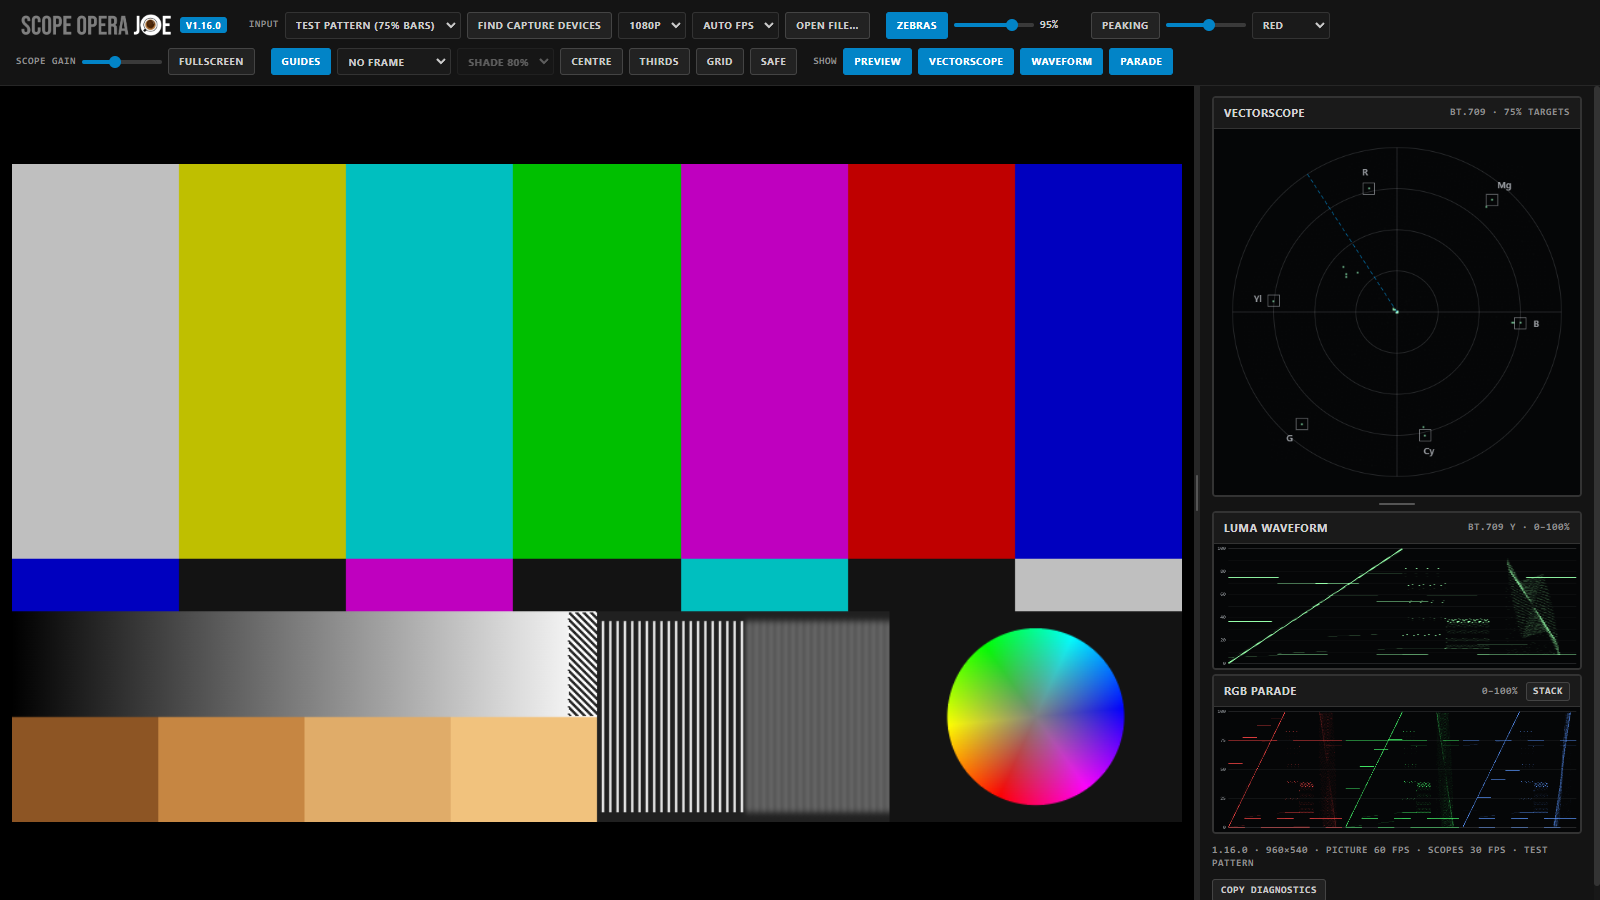
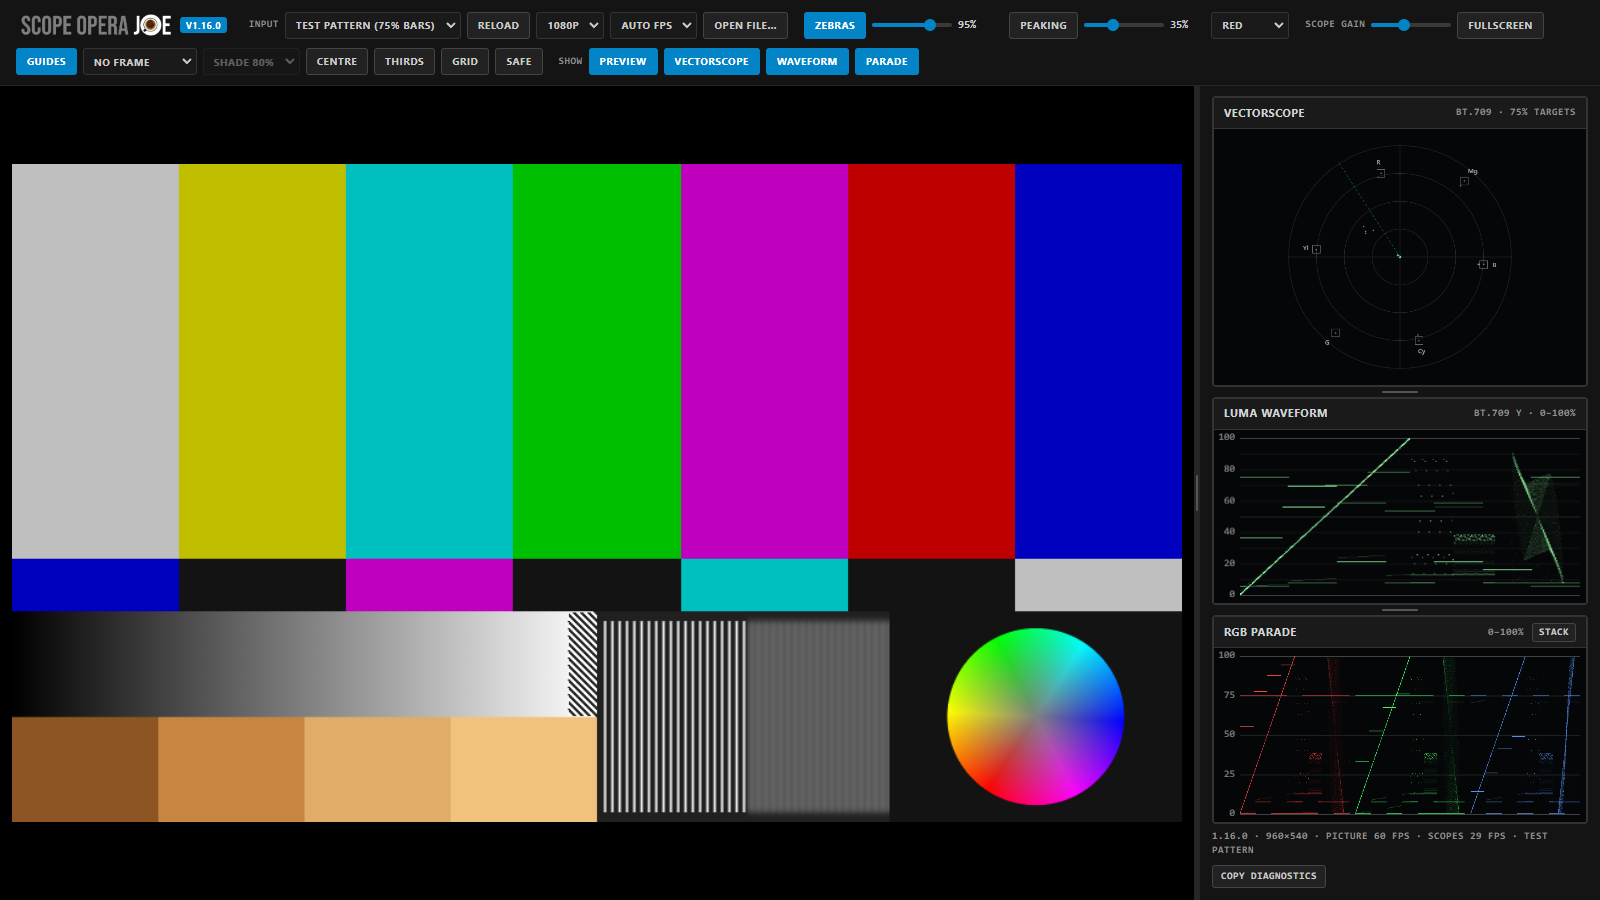
FIND CAPTURE DEVICES becomes RELOAD, which also reopens the selected device
RELOAD lists the devices again and reopens the selected one, so it is also how to retry
after NO SIGNAL. README and screenshot updated; the screenshot tool blurs the focused
control first so no list shows up opened.

diff --git a/index.html b/index.html
@@ -127,7 +127,7 @@ body.resizing.col{cursor:col-resize} body.resizing.row{cursor:row-resize}
   <div class="grp">
     <label for="src">Input</label>
     <select id="src"><option value="test">Test pattern (75% bars)</option></select>
-    <button id="scan">Find capture devices</button>
+    <button id="scan" title="Find devices again and reopen the selected one">Reload</button>
     <select id="res" title="Requested capture resolution">
       <option value="1920x1080">1080p</option>
       <option value="3840x2160">2160p</option>
@@ -413,7 +413,7 @@ async function scan(){
   if(!stream && devs.some(d=>!d.label)){
     try{ tmp=await navigator.mediaDevices.getUserMedia({video:true,audio:false}); }
     catch(e){
-      if(e.name==='NotAllowedError'||e.name==='SecurityError'){ msg('Camera access was blocked ('+e.name+'). Allow camera access for this page, then press "Find capture devices" again.'); return; }
+      if(e.name==='NotAllowedError'||e.name==='SecurityError'){ msg('Camera access was blocked ('+e.name+'). Allow camera access for this page, then press RELOAD.'); return; }
       errLog.push(new Date().toISOString().slice(11,19)+'  default camera would not open while listing devices ('+e.name+')');
     }
     devs=await list();
@@ -516,7 +516,12 @@ function useFile(f){
   sel.value='file'; msg('');
 }
 ['loadedmetadata','resize'].forEach(ev=>vid.addEventListener(ev,()=>{ setStageAspect(vid.videoWidth,vid.videoHeight); fitStage(); }));
-$('scan').onclick=scan;
+// RELOAD: list the devices again, then reopen the selected one (also the way to retry after NO SIGNAL)
+$('scan').onclick=async()=>{
+  await scan();
+  const v=$('src').value;
+  if(v!=='test' && v!=='file') useDevice(v);
+};
 ['copyErr','copyDiag'].forEach(id=>{ const b=$(id); b.dataset.label=b.textContent; b.onclick=()=>copyDiagnostics(b); });
 $('hideMsg').onclick=()=>{ msgEl.hidden=true; };
 $('src').onchange=e=>{ const v=e.target.value; if(v==='test') useTest(); else if(v==='file') vid.play(); else useDevice(v); };

diff --git a/tools/screenshot.js b/tools/screenshot.js
@@ -24,6 +24,9 @@ app.whenReady().then(() => {
         const win = BrowserWindow.getAllWindows()[0];
         win.setContentSize(1600, 900);
         await new Promise(r => setTimeout(r, 2500));
+        // Nothing focused or open (a focused list can show up opened in the capture)
+        await win.webContents.executeJavaScript('document.activeElement?.blur()');
+        await new Promise(r => setTimeout(r, 300));
         const image = await win.webContents.capturePage();
         fs.mkdirSync(path.dirname(out), { recursive: true });
         fs.writeFileSync(out, image.toPNG());

diff --git a/README.md b/README.md
@@ -29,7 +29,9 @@ Your settings (layout, guides, last device) are kept in your app-data folder (`%
 ## ✨ Features
 
 ### Input
-- Any **capture card or webcam** your computer sees. **FIND CAPTURE DEVICES** lists them, and the last one you used opens again at the next launch.
+- Any **capture card or webcam** your computer sees, including virtual cameras such as OBS, vMix and NDI Webcam. The last one you used opens again at the next launch.
+- **RELOAD** lists the devices again (after you plug one in, for example) and reopens the selected one.
+- If the selected device sends nothing, the picture says **NO SIGNAL**.
 - Ask for **1080p, 2160p or 720p** and a frame rate (**AUTO, 60, 59.94, 50, 30, 29.97, 25, 24**). Capture cards can be picky, so if the card refuses, Scope Opera Joe tries looser settings until it gets a picture.
 - A built-in **test pattern**: 75% colour bars, a greyscale ramp, skin-tone patches, sharp and soft lines for peaking, and a rotating hue wheel.
 - **OPEN FILE…** to check a video file instead.
